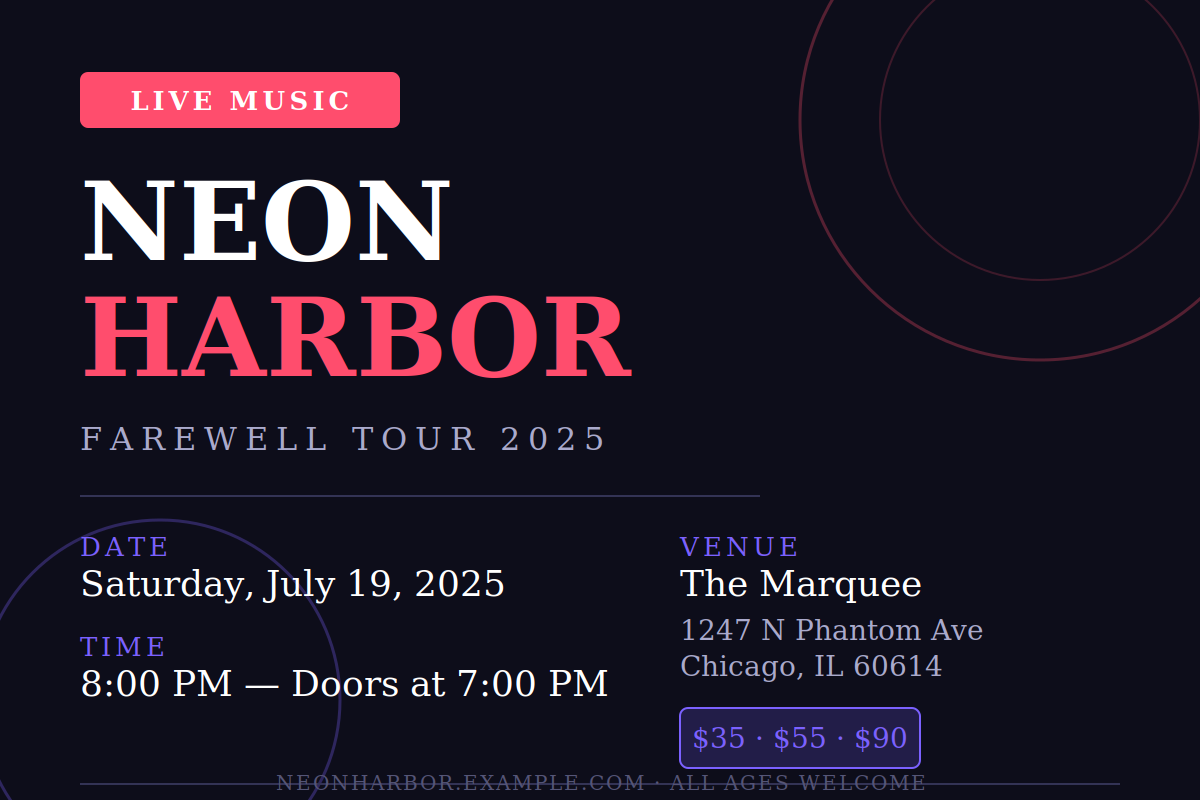
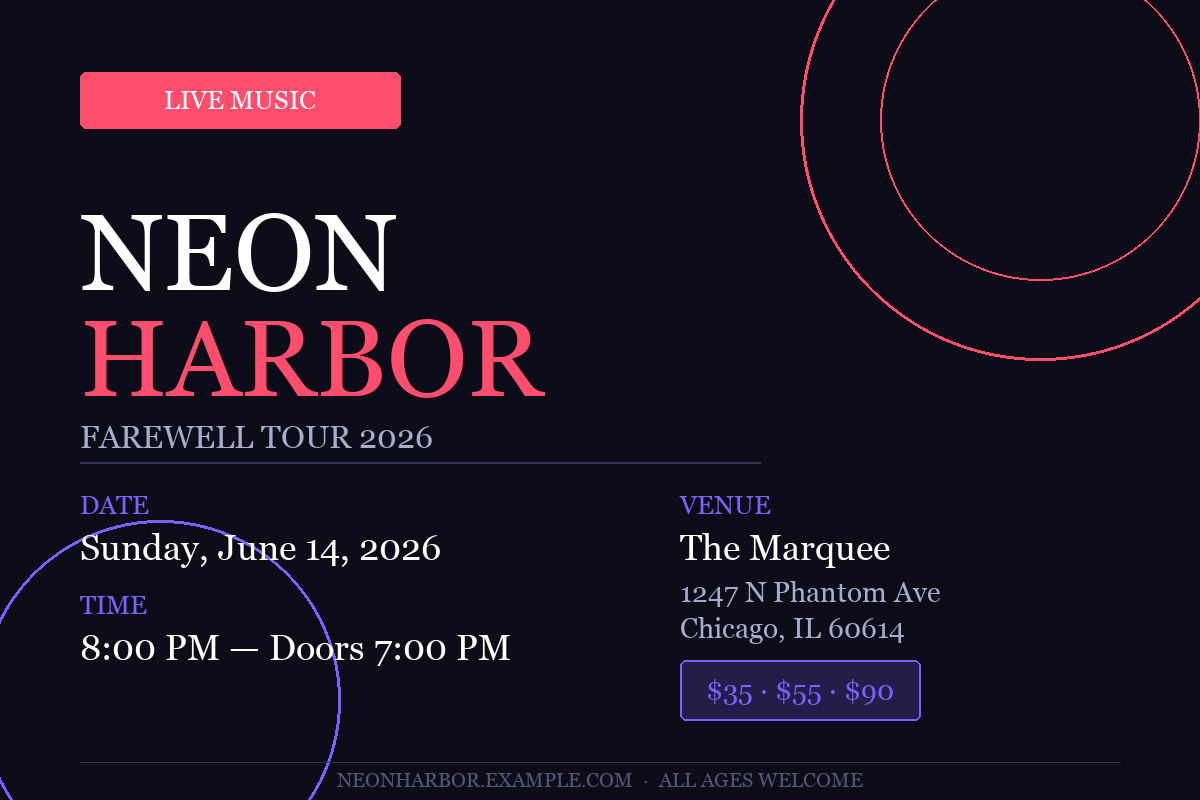
feat!: add events to local calendar
Also added a pep 723 script to create test flyers

diff --git a/packages/app/app/confirm.tsx b/packages/app/app/confirm.tsx
@@ -1,14 +1,43 @@
 // Generated by agent — 2026-06-04
 import { useContext } from "react";
-import { Text, View, TextInput, Pressable } from "react-native";
+import { Text, View, TextInput, Pressable, Alert } from "react-native";
+import * as Calendar from "expo-calendar";
+import { router } from "expo-router";
 import { EventDraftContext } from "@/src/components/eventDraft";
 import { DateField } from "@/src/components/DateField";
+
+async function addToCalendar(
+  name: string,
+  starts_at: string,
+  ends_at: string | null,
+  location: string | null,
+) {
+  // Ask for permission to access the device calendar
+  const { status } = await Calendar.requestCalendarPermissionsAsync();
+  if (status !== "granted") {
+    Alert.alert("Permission denied", "Calendar access is required.");
+    return false;
+  }
+
+  // getDefaultCalendarSync() returns the calendar iOS considers the user's default
+  const defaultCalendar = await Calendar.getDefaultCalendarAsync();
+
+  await Calendar.createEventAsync(defaultCalendar.id, {
+    title: name,
+    startDate: new Date(starts_at),
+    // Fall back to 1 hour after start if no end time provided
+    endDate: new Date(ends_at ?? new Date(starts_at).setHours(new Date(starts_at).getHours() + 1)),
+    location: location ?? undefined,
+    timeZone: Intl.DateTimeFormat().resolvedOptions().timeZone,
+  });
+
+  return true;
+}
 
 export default function ConfirmModal() {
   // ! asserts the context is non-null (safe because EventDraftProvider wraps the whole app)
   const { eventDraft, setEventDraft } = useContext(EventDraftContext)!;
 
-  // Early return if no image has been processed yet
   if (!eventDraft) {
     return (
       <View className="flex-1 items-center justify-center">
@@ -49,9 +78,22 @@ export default function ConfirmModal() {
         className={inputClass}
       />
 
-      {/* TODO: call POST /api/events with EventSafeCreateSchema.parse(eventDraft) */}
       {/* mt-auto pushes the button to the bottom of the screen */}
-      <Pressable className="bg-blue-500 rounded-xl p-4 items-center mt-auto">
+      <Pressable
+        className="bg-blue-500 rounded-xl p-4 items-center mt-auto"
+        onPress={async () => {
+          const success = await addToCalendar(
+            eventDraft.name,
+            eventDraft.starts_at,
+            eventDraft.ends_at,
+            eventDraft.location,
+          );
+          if (success) {
+            setEventDraft(null); // clear the draft
+            router.back();       // dismiss the modal
+          }
+        }}
+      >
         <Text className="text-white font-semibold">Add to Calendar</Text>
       </Pressable>
     </View>

diff --git a/gen-test-event.py b/gen-test-event.py
@@ -1,0 +1,180 @@
+#!/usr/bin/env -S uv run --script
+# /// script
+# requires-python = ">=3.11"
+# dependencies = ["Pillow"]
+# ///
+
+import argparse
+import sys
+from datetime import datetime, timedelta
+from pathlib import Path
+from PIL import Image, ImageDraw, ImageFont
+
+
+# ── Font loading ──────────────────────────────────────────────────────────────
+
+FONT_CANDIDATES = [
+    # macOS
+    "/System/Library/Fonts/Supplemental/Georgia.ttf",
+    "/System/Library/Fonts/Supplemental/GeorgiaBold.ttf",
+    "/Library/Fonts/Georgia.ttf",
+    # Linux
+    "/usr/share/fonts/truetype/dejavu/DejaVuSerif.ttf",
+    "/usr/share/fonts/truetype/liberation/LiberationSerif-Regular.ttf",
+    # Windows
+    "C:/Windows/Fonts/georgia.ttf",
+]
+
+def find_font() -> str | None:
+    for p in FONT_CANDIDATES:
+        if Path(p).exists():
+            return p
+    return None
+
+def load(size: int, bold: bool = False) -> ImageFont.FreeTypeFont | ImageFont.ImageFont:
+    base = find_font()
+    if base is None:
+        return ImageFont.load_default()
+    # try bold variant next to the regular one
+    if bold:
+        bold_path = base.replace(".ttf", "Bold.ttf").replace("Regular", "Bold")
+        if Path(bold_path).exists():
+            base = bold_path
+    try:
+        return ImageFont.truetype(base, size)
+    except Exception:
+        return ImageFont.load_default()
+
+
+# ── Palette ───────────────────────────────────────────────────────────────────
+
+BG       = (13,  13,  26)
+WHITE    = (255, 255, 255)
+RED      = (255, 77,  109)
+PURPLE   = (123, 97,  255)
+GRAY     = (170, 170, 204)
+DARKLINE = (51,  51,  85)
+DIMTEXT  = (85,  85,  119)
+
+
+# ── Drawing helpers ───────────────────────────────────────────────────────────
+
+def circle(draw: ImageDraw.ImageDraw, cx, cy, r, color, width=2):
+    draw.ellipse([cx - r, cy - r, cx + r, cy + r], outline=color, width=width)
+
+def badge(draw: ImageDraw.ImageDraw, x, y, w, h, text, font):
+    draw.rounded_rectangle([x, y, x + w, y + h], radius=6, fill=RED)
+    draw.text((x + w // 2, y + h // 2), text, font=font, fill=WHITE, anchor="mm")
+
+def pill_outline(draw: ImageDraw.ImageDraw, x, y, w, h, text, font):
+    overlay = Image.new("RGBA", draw._image.size, (0, 0, 0, 0))
+    od = ImageDraw.Draw(overlay)
+    od.rounded_rectangle([x, y, x + w, y + h], radius=6, fill=(*PURPLE, 50))
+    od.rounded_rectangle([x, y, x + w, y + h], radius=6, outline=(*PURPLE, 255), width=2)
+    draw._image.alpha_composite(overlay)
+    draw.text((x + w // 2, y + h // 2), text, font=font, fill=PURPLE, anchor="mm")
+
+
+# ── Build image ───────────────────────────────────────────────────────────────
+
+W, H = 1200, 800
+
+def build(date_label: str, time_label: str) -> Image.Image:
+    img = Image.new("RGBA", (W, H), BG)
+    draw = ImageDraw.Draw(img)
+
+    # Decorative rings
+    circle(draw, 1040, 120, 240, (*RED, 80),    width=3)
+    circle(draw, 1040, 120, 160, (*RED, 50),    width=2)
+    circle(draw, 160,  700, 180, (*PURPLE, 80), width=3)
+
+    # Badge
+    badge(draw, 80, 72, 320, 56, "LIVE MUSIC", load(26, bold=True))
+
+    # Title
+    draw.text((80, 190), "NEON",   font=load(108, bold=True), fill=WHITE)
+    draw.text((80, 296), "HARBOR", font=load(108, bold=True), fill=RED)
+    draw.text((80, 418), f"FAREWELL TOUR {datetime.now().year}", font=load(32), fill=GRAY)
+
+    # Divider
+    draw.line([(80, 462), (760, 462)], fill=DARKLINE, width=2)
+
+    # Left column — Date / Time
+    draw.text((80, 490), "DATE", font=load(26), fill=PURPLE)
+    d_label = date_label[:34] + ("…" if len(date_label) > 34 else "")
+    draw.text((80, 526), d_label,    font=load(36), fill=WHITE)
+
+    draw.text((80, 590), "TIME", font=load(26), fill=PURPLE)
+    draw.text((80, 626), time_label, font=load(36), fill=WHITE)
+
+    # Right column — Venue
+    draw.text((680, 490), "VENUE",              font=load(26), fill=PURPLE)
+    draw.text((680, 526), "The Marquee",        font=load(36), fill=WHITE)
+    draw.text((680, 576), "1247 N Phantom Ave", font=load(28), fill=GRAY)
+    draw.text((680, 612), "Chicago, IL 60614",  font=load(28), fill=GRAY)
+
+    # Ticket pill
+    pill_outline(draw, 680, 660, 240, 60, "$35 · $55 · $90", load(28))
+
+    # Footer
+    draw.line([(80, 762), (1120, 762)], fill=DARKLINE, width=1)
+    draw.text(
+        (W // 2, 780),
+        "NEONHARBOR.EXAMPLE.COM  ·  ALL AGES WELCOME",
+        font=load(20), fill=DIMTEXT, anchor="mm",
+    )
+
+    return img.convert("RGB")
+
+
+# ── CLI ───────────────────────────────────────────────────────────────────────
+
+def parse_args():
+    p = argparse.ArgumentParser(
+        description="Generate a test event flyer PNG.",
+        usage="./gen-test-event.py <days> [-r] [-e] [-o OUTPUT]",
+    )
+    p.add_argument("days", type=int, help="Days in the future for the event")
+    p.add_argument("-r", "--relative", action="store_true", help="Relative date phrasing ('Next Saturday')")
+    p.add_argument("-e", "--end",      action="store_true", help="Include an end time (2h after start)")
+    p.add_argument("-o", "--output",   default="test-event.png", help="Output path (default: test-event.png)")
+    return p.parse_args()
+
+
+def fmt_date(dt):  return dt.strftime("%A, %B %-d, %Y")
+def fmt_time(dt):  return dt.strftime("%-I:%M %p")
+
+def relative_label(dt, days):
+    w = dt.strftime("%A")
+    if days == 0:  return "Tonight"
+    if days == 1:  return "Tomorrow"
+    if days < 7:   return f"This {w}"
+    if days < 14:  return f"Next {w}"
+    return f"In {days} days ({w})"
+
+
+def main():
+    args = parse_args()
+
+    now   = datetime.now().replace(second=0, microsecond=0)
+    start = (now + timedelta(days=args.days)).replace(hour=20, minute=0)
+    end   = start.replace(hour=22)
+    doors = start.replace(hour=19)
+
+    date_label = relative_label(start, args.days) if args.relative else fmt_date(start)
+    time_label = (
+        f"{fmt_time(start)} — {fmt_time(end)}"
+        if args.end
+        else f"{fmt_time(start)} — Doors {fmt_time(doors)}"
+    )
+
+    img = build(date_label, time_label)
+    img.save(args.output, "PNG")
+
+    print(f"✓ {args.output}  ({args.days}d · {'relative' if args.relative else 'absolute'} · end={args.end})")
+    print(f"  date: {date_label}")
+    print(f"  time: {time_label}")
+
+
+if __name__ == "__main__":
+    main()
